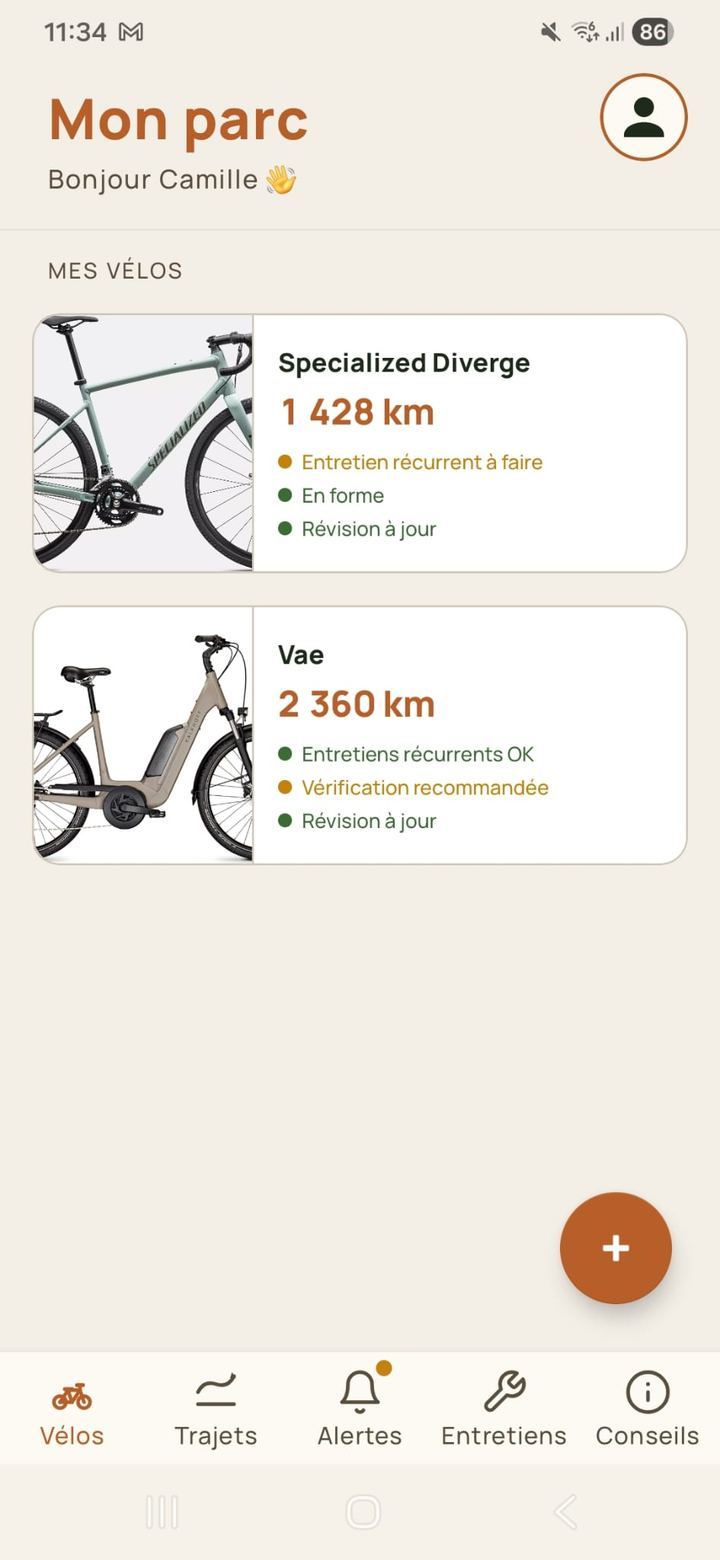
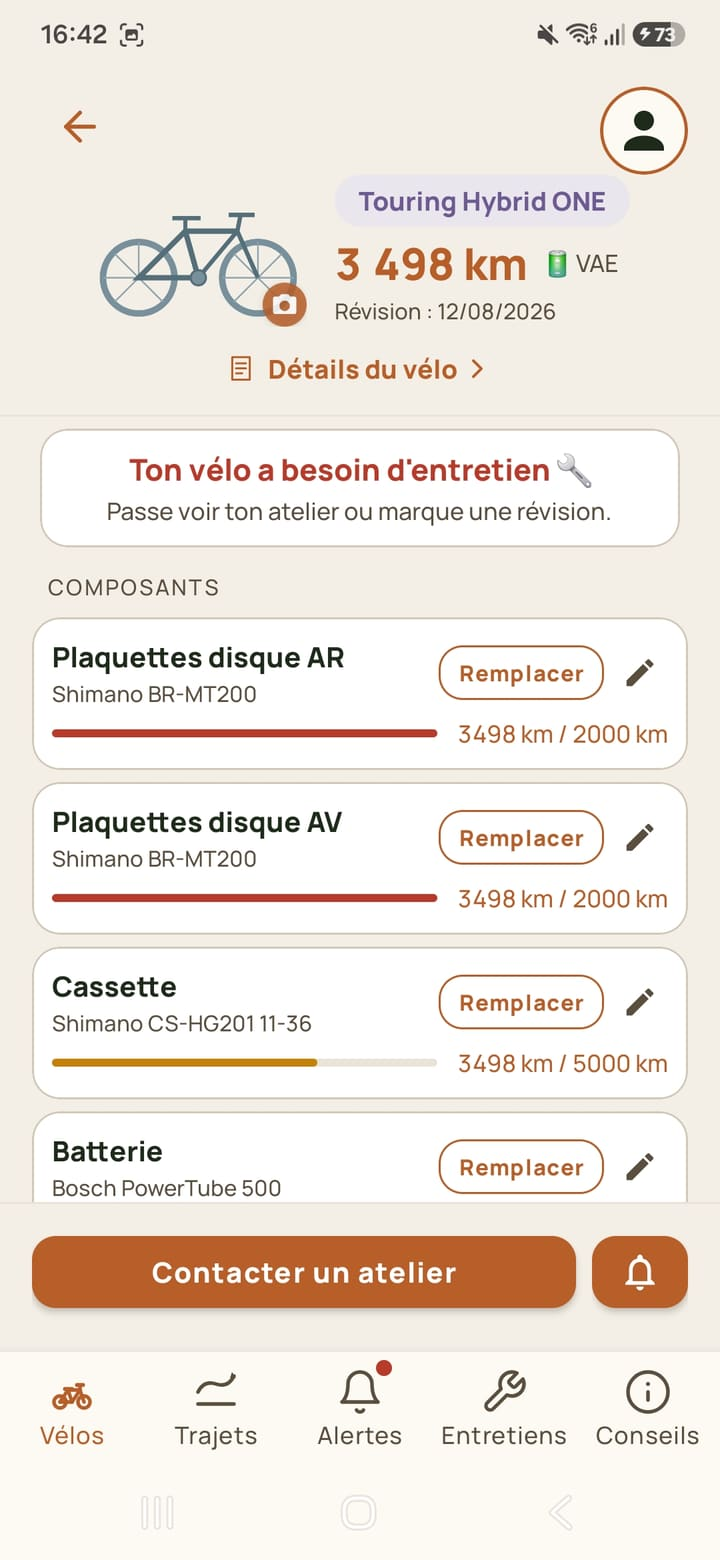
Nouvelle capture d'ecran du hero, redimensionnee et re-encodee
La capture fournie faisait 1080x2340 pour 514 Ko. Le mockup l'affiche a
260 px de large (.phone fait 280 px, moins 10 px de padding de chaque
cote), donc elle est ramenee a 720 px comme la precedente, soit environ
2,8x, ce qui couvre le 2x confortablement.

- assets/app-screenshot.jpg et .webp regeneres en 720x1560 (Lanczos).
  Le ratio 9:19,5 de la source est identique a l'ancien asset, les
  attributs width et height du HTML restent donc valables et il n'y a
  pas de saut de mise en page au chargement.
- WebP en q=75 avec smartSubsample, 52 Ko : c'est le format reellement
  servi aux navigateurs modernes, et smartSubsample preserve la nettete
  du texte de l'interface. JPEG de repli en q=78, 85 Ko. Plus lourd que
  l'ancien asset (37 et 74 Ko) parce que la nouvelle capture contient
  plus de detail : meme a qualite basse le WebP ne descend pas sous
  47 Ko.
- textes alternatifs FR et EN corriges : la capture ne montre plus la
  liste des velos mais la fiche d'un velo, avec l'usure de chaque
  composant face a son seuil. L'ancien texte decrivait une image qui
  n'existe plus.

diff --git a/index.html b/index.html
@@ -132,7 +132,7 @@
             <div class="phone">
               <picture>
                 <source srcset="assets/app-screenshot.webp" type="image/webp">
-                <img src="assets/app-screenshot.jpg" alt="Aperçu de l'app BikeHealth : liste des vélos avec leur statut d'entretien" class="phone-screenshot" width="720" height="1560" loading="eager" fetchpriority="high">
+                <img src="assets/app-screenshot.jpg" alt="Aperçu de l'app BikeHealth : la fiche d'un vélo, où chaque composant affiche son usure face à son seuil de remplacement" class="phone-screenshot" width="720" height="1560" loading="eager" fetchpriority="high">
               </picture>
             </div>
           </div>

diff --git a/en/index.html b/en/index.html
@@ -133,7 +133,7 @@
             <div class="phone">
               <picture>
                 <source srcset="/assets/app-screenshot.webp" type="image/webp">
-                <img src="/assets/app-screenshot.jpg" alt="Preview of the BikeHealth app: bike fleet list with maintenance status" class="phone-screenshot" width="720" height="1560" loading="eager" fetchpriority="high">
+                <img src="/assets/app-screenshot.jpg" alt="Preview of the BikeHealth app: a bike's page, where every component shows its wear against its replacement threshold" class="phone-screenshot" width="720" height="1560" loading="eager" fetchpriority="high">
               </picture>
             </div>
           </div>
